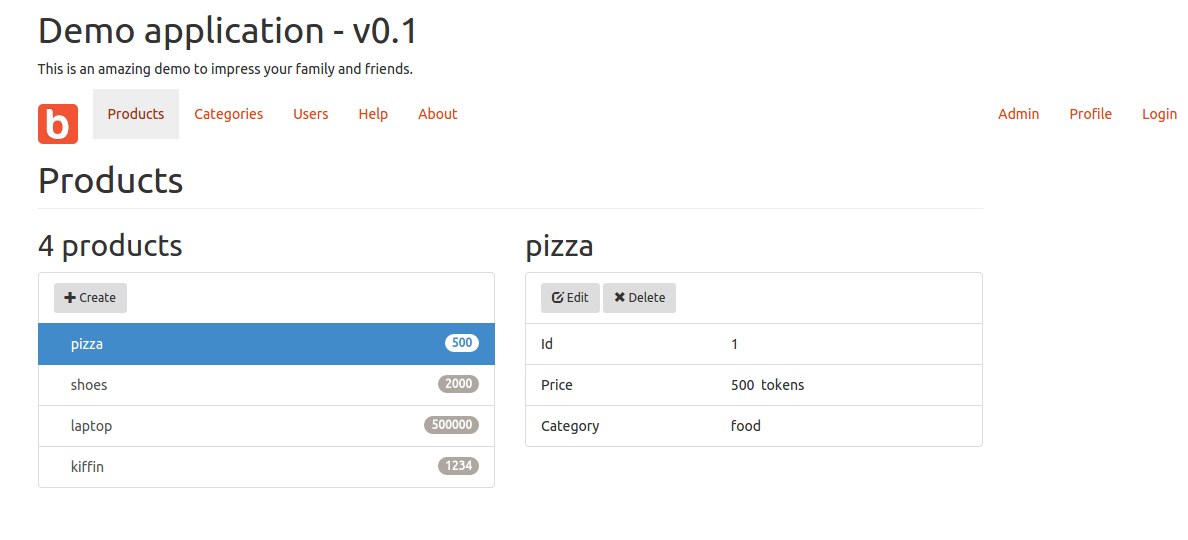
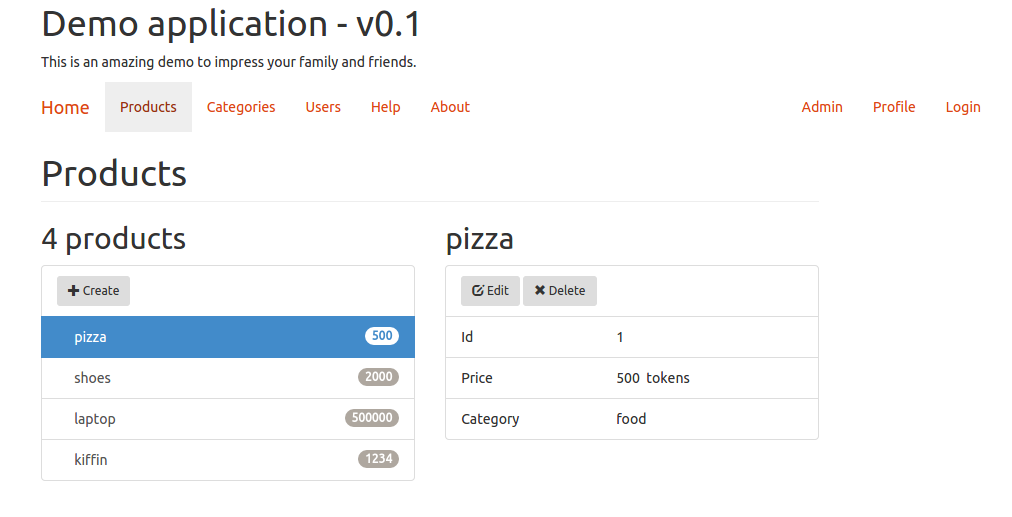
Cleanup old files removed

diff --git a/index.html b/index.html
@@ -25,7 +25,7 @@
         <header class="navbar navbar-static-top" id="top" role="banner">
             <div class="container">
                 <div class="navbar-header">
-                    {{#link-to "index" class="navbar-brand"}}<img alt="Home" src="/images/company-brand-small.png">{{/link-to}}
+                    {{#link-to "index" class="navbar-brand"}}Home{{/link-to}}
                 </div>
                 <nav class="collapse navbar-collapse">
                     <ul class="nav navbar-nav">
